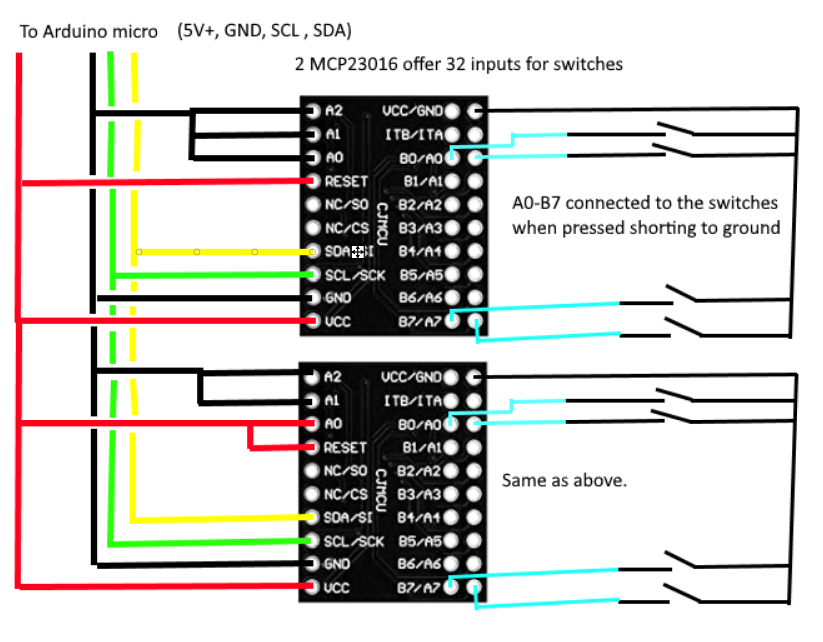
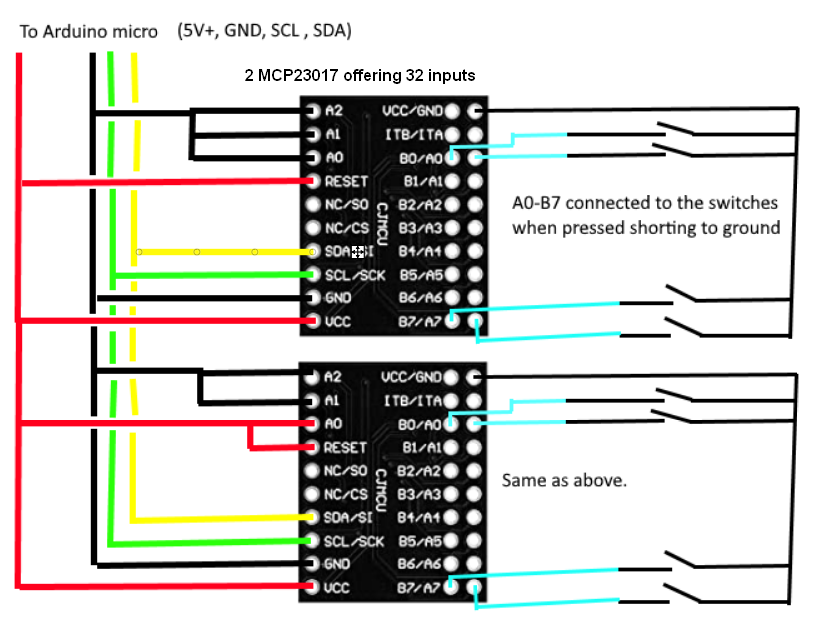
mcp fixed, 23017 instead of 23016

Changed region(s): [[0.3038, 0.0623, 0.7594, 0.1246]]

diff --git a/README.md b/README.md
@@ -1,2 +1,5 @@
 # joystick_F16_sidestick
 Hotas-F16 Sidestick, based on Arduino Micro and MCP23017
+
+Stick printed from https://www.thingiverse.com/thing:4544115
+
